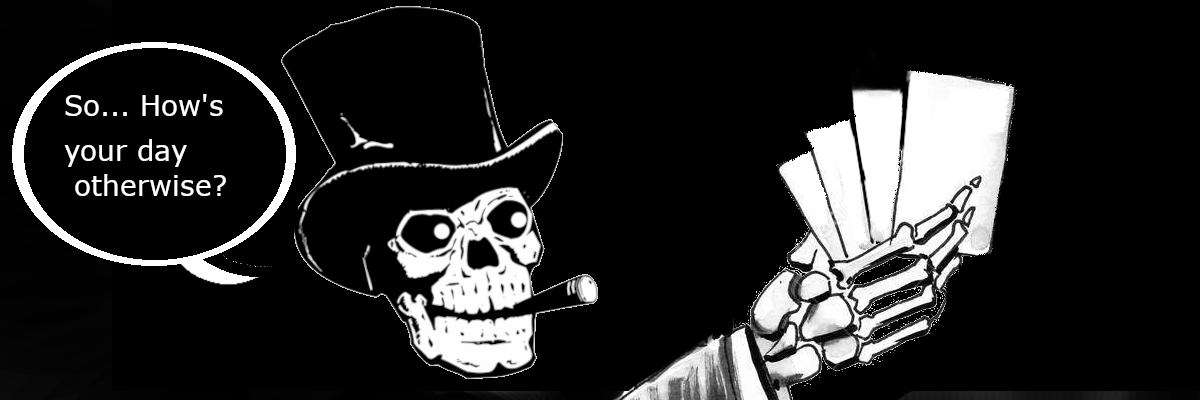
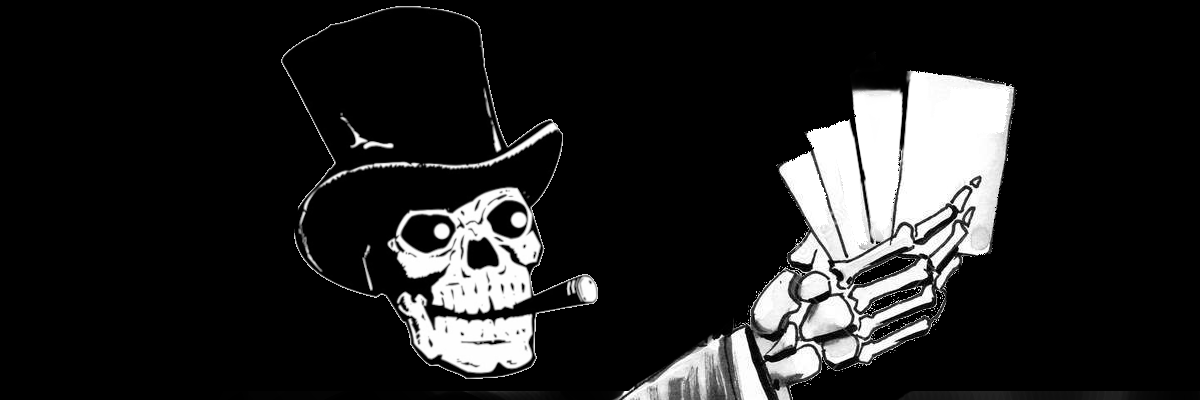
reworkingExerything

diff --git a/index.html b/index.html
@@ -16,9 +16,13 @@
 <body>
     <header class="wrapper">
     <h1>Let's Play some frickin' CARDS!!!</h1>
-    <img src="./assets/spookySkel.png" alt="A SPOOKY SKELLINGTON!">
     </header>
     <section>
+        <div class="opponent wrapper">
+            <p class="speech">
+                Oh Hellooooo
+            </p>
+        </div>
         <div class="playArea">
             <button class="drawCard">Draw</button>
             <div class="card"><span><i class="fas fa-skull-crossbones"></i></i> "Feelin' lucky, partner?" <span><i class="fas fa-skull-crossbones"></i></span> 

diff --git a/styles.css b/styles.css
@@ -25,6 +25,18 @@ h1 {
     font-family: 'Rye', cursive;
     font-size: 4.4rem;
 }
+
+.opponent {
+    display: flex;
+    height: 40vh;
+    background-image: url(./assets/spookySkel.png);
+    background-repeat: no-repeat;
+}
+.speech {
+    color: hotpink;
+    font-size: 22px;
+}
+
 button {
     background: linear-gradient(180deg, rgba(246,200,62,1) 8%, rgba(236,185,33,1) 50%, rgba(191,155,48,1) 92%);
     font-family: 'Press Start 2P';

diff --git a/app.js b/app.js
@@ -25,8 +25,8 @@ app.getSomething = function(){
 
     $('.playHand').on('click', function(){
         const html1 = `
-            <h1>You Lose!
-            HAHAHAHAHAHAHA</h1>
+            < class="">You Lose!
+            HAHAHAHAHAHAHA</p>
         `
         $('.card').empty();
         $('h1').replaceWith(html1);
